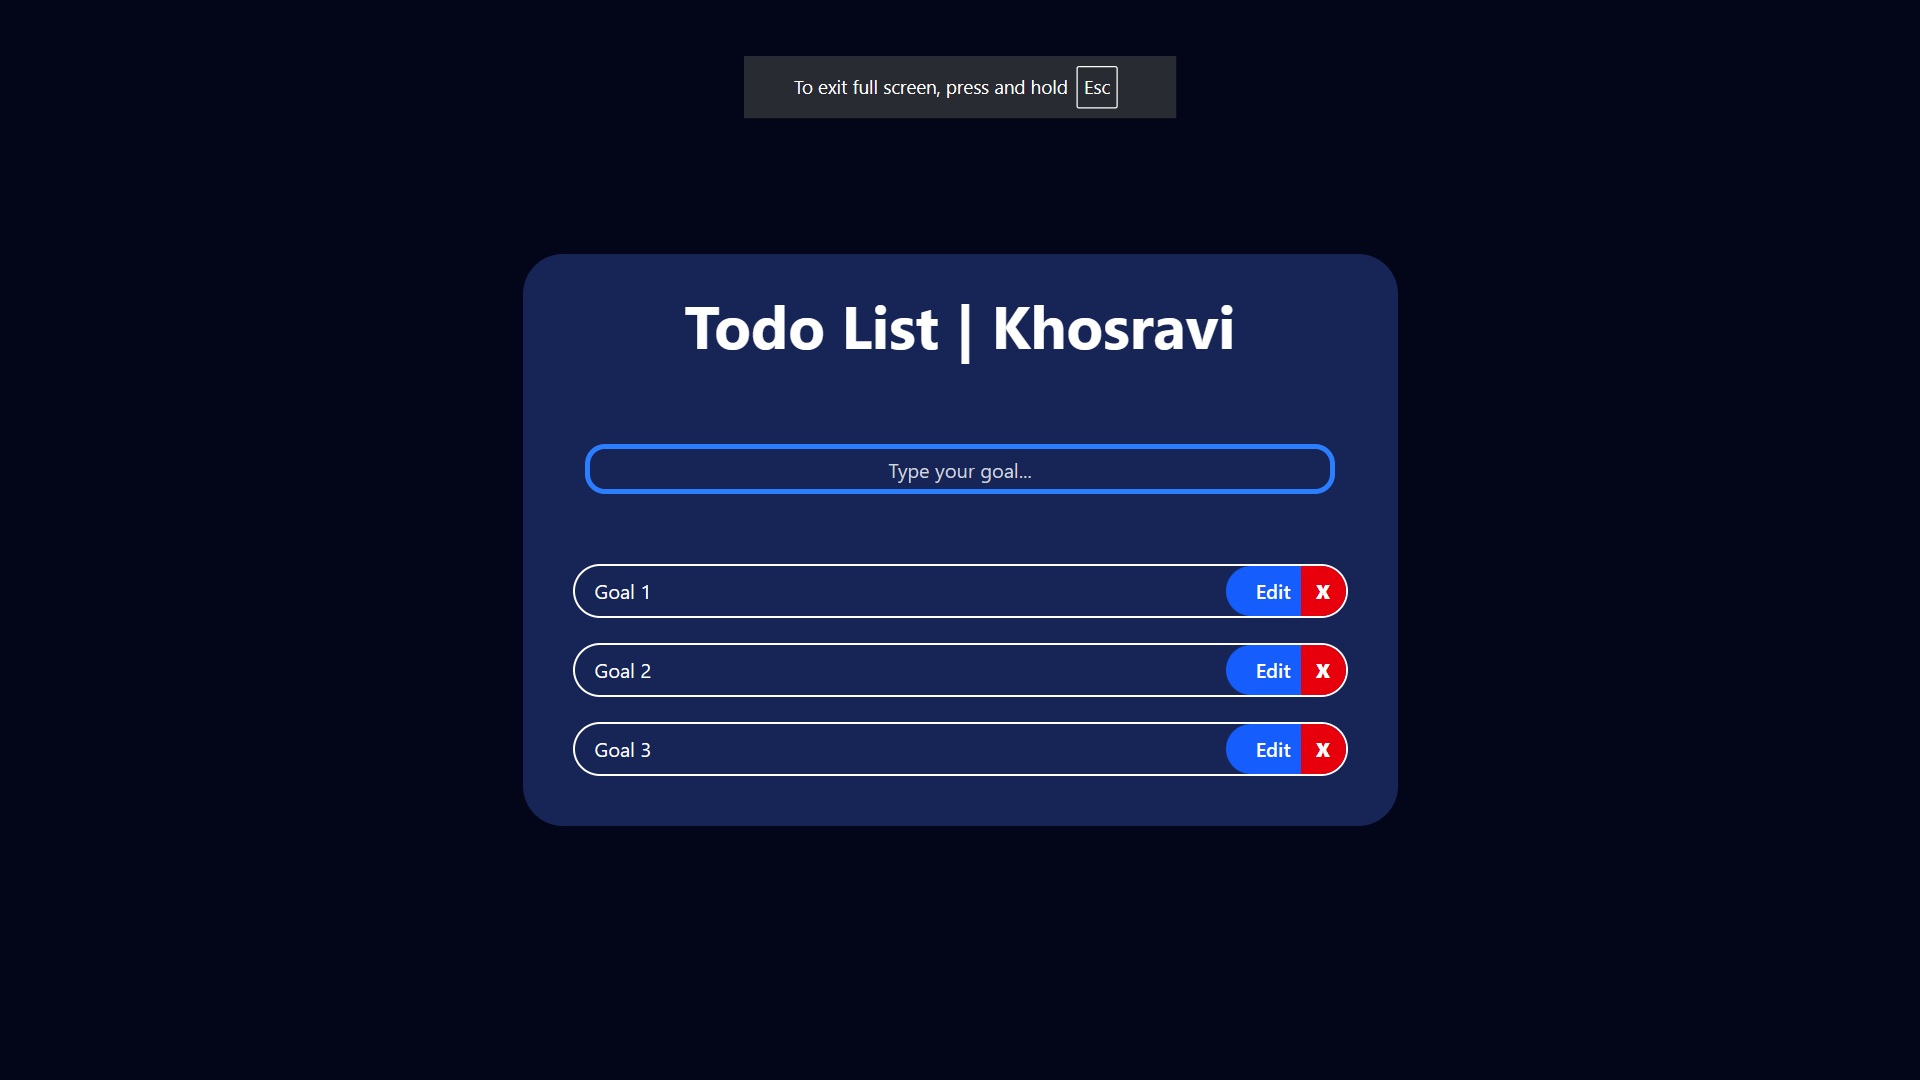
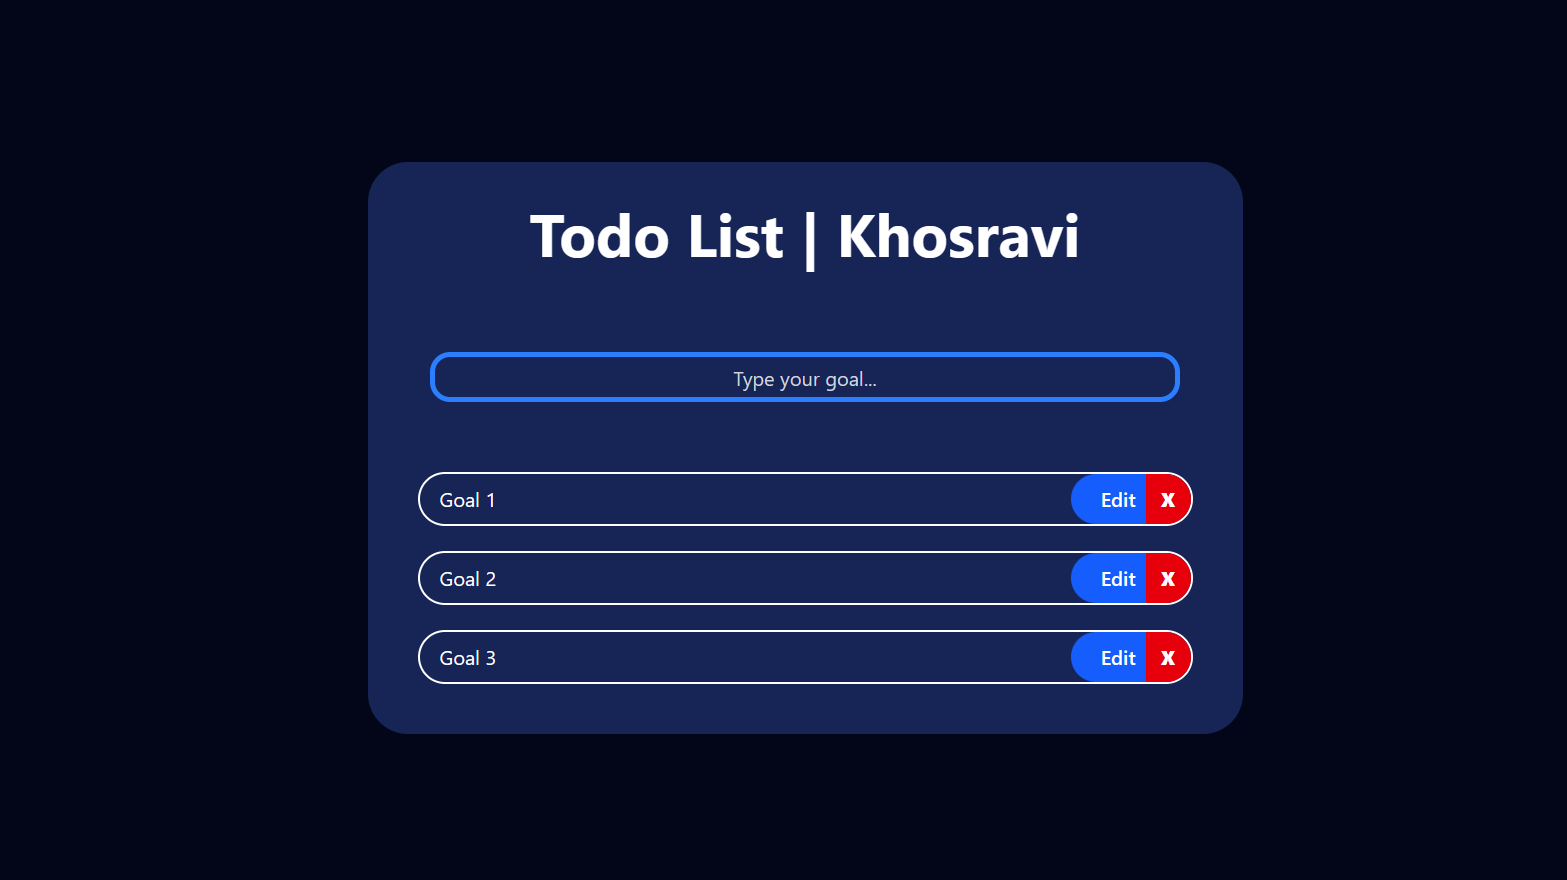
fix project objects alignments.

Changed region(s): [[0.2144, 0.1841, 0.7964, 0.8591], [0.3676, 0.0307, 0.6126, 0.1227]]

diff --git a/src/app/components/Projects.tsx b/src/app/components/Projects.tsx
@@ -70,29 +70,29 @@ export default function Projects() {
           <h1 className="text-primary text-3xl"> Featured Projects</h1>
         </div>
 
-        <div className=" col-span-12 flex items-center gap-4 p-0 m-0">
+        <div className=" col-span-12 flex items-start gap-4 p-0 m-0">
           {projects.map((project) => (
             <div
               key={project.title}
-              className="w-170 grid grid-cols-12 text-primary bg-bg-card  rounded-3xl p-3 gap-2"
+              className=" grid grid-cols-12 text-primary bg-bg-card  rounded-3xl p-3 gap-2"
             >
               {/* project image */}
               <Image
                 src={project.image}
-                width={400}
-                height={400}
+                width={100}
+                height={100}
                 alt="Picture of the project"
-                className=" col-span-12 rounded-2xl  pl-5 m-0"
+                className="w-100 h-50 col-span-12 rounded-2xl  pl-5 m-0"
               />
               {/* project title */}
-              <h1 className="col-span-12 p-2 text-2xl font-semibold">
+              <h1 className="w-100 col-span-12 p-2 text-2xl font-semibold">
                 {project.title}
               </h1>
               {/* project description */}
-              <h2 className="col-span-12 p-2 font-medium">{project.description}</h2>
+              <h2 className="w-100 col-span-12 p-2 font-medium">{project.description}</h2>
 
               {/* project tags */}
-              <div className="col-span-12 p-2 flex flex-wrap gap-2">
+              <div className=" w-100 col-span-12 p-2 flex flex-wrap gap-2">
                 {project.tags.map((tag) => (
                   <div
                     key={tag}
@@ -105,20 +105,14 @@ export default function Projects() {
 
 
               {project.demo === true && (
+                <>
                 <Link
                   href={project.address}
                   className="hover:bg-[#57cc99] border-2 hover:border-[#57cc99] col-span-6 rounded-xl inline-flex items-center gap-2 justify-between p-4 m-2 font-medium"
                 >
                   Live Demo <MonitorPlay className="scale-120" />
                 </Link>
-              )}
-
-
-
-
-
-              {/* project github link */}
-              <Link
+                <Link
                 href={project.gitHubAddress}
                 className="hover:bg-[#57cc99] border-2 hover:border-[#57cc99] col-span-6 rounded-xl inline-flex items-center gap-2 justify-between p-4 m-2 font-medium"
               >
@@ -130,6 +124,34 @@ export default function Projects() {
                   alt="Picture of the project"
                 />
               </Link>
+              </>
+              )}
+
+              {project.demo === false && (
+                
+               
+                <Link
+                href={project.gitHubAddress}
+                className="hover:bg-[#57cc99] border-2 hover:border-[#57cc99] col-span-12 rounded-xl inline-flex items-center gap-2 justify-between p-4 m-2 font-medium"
+              >
+                GitHub
+                <Image
+                  src="/toolLogo/github-icon.svg"
+                  width={30}
+                  height={30}
+                  alt="Picture of the project"
+                />
+              </Link>
+              
+              )}
+              
+
+
+
+
+
+              {/* project github link */}
+              
             </div>
 
           ))}
